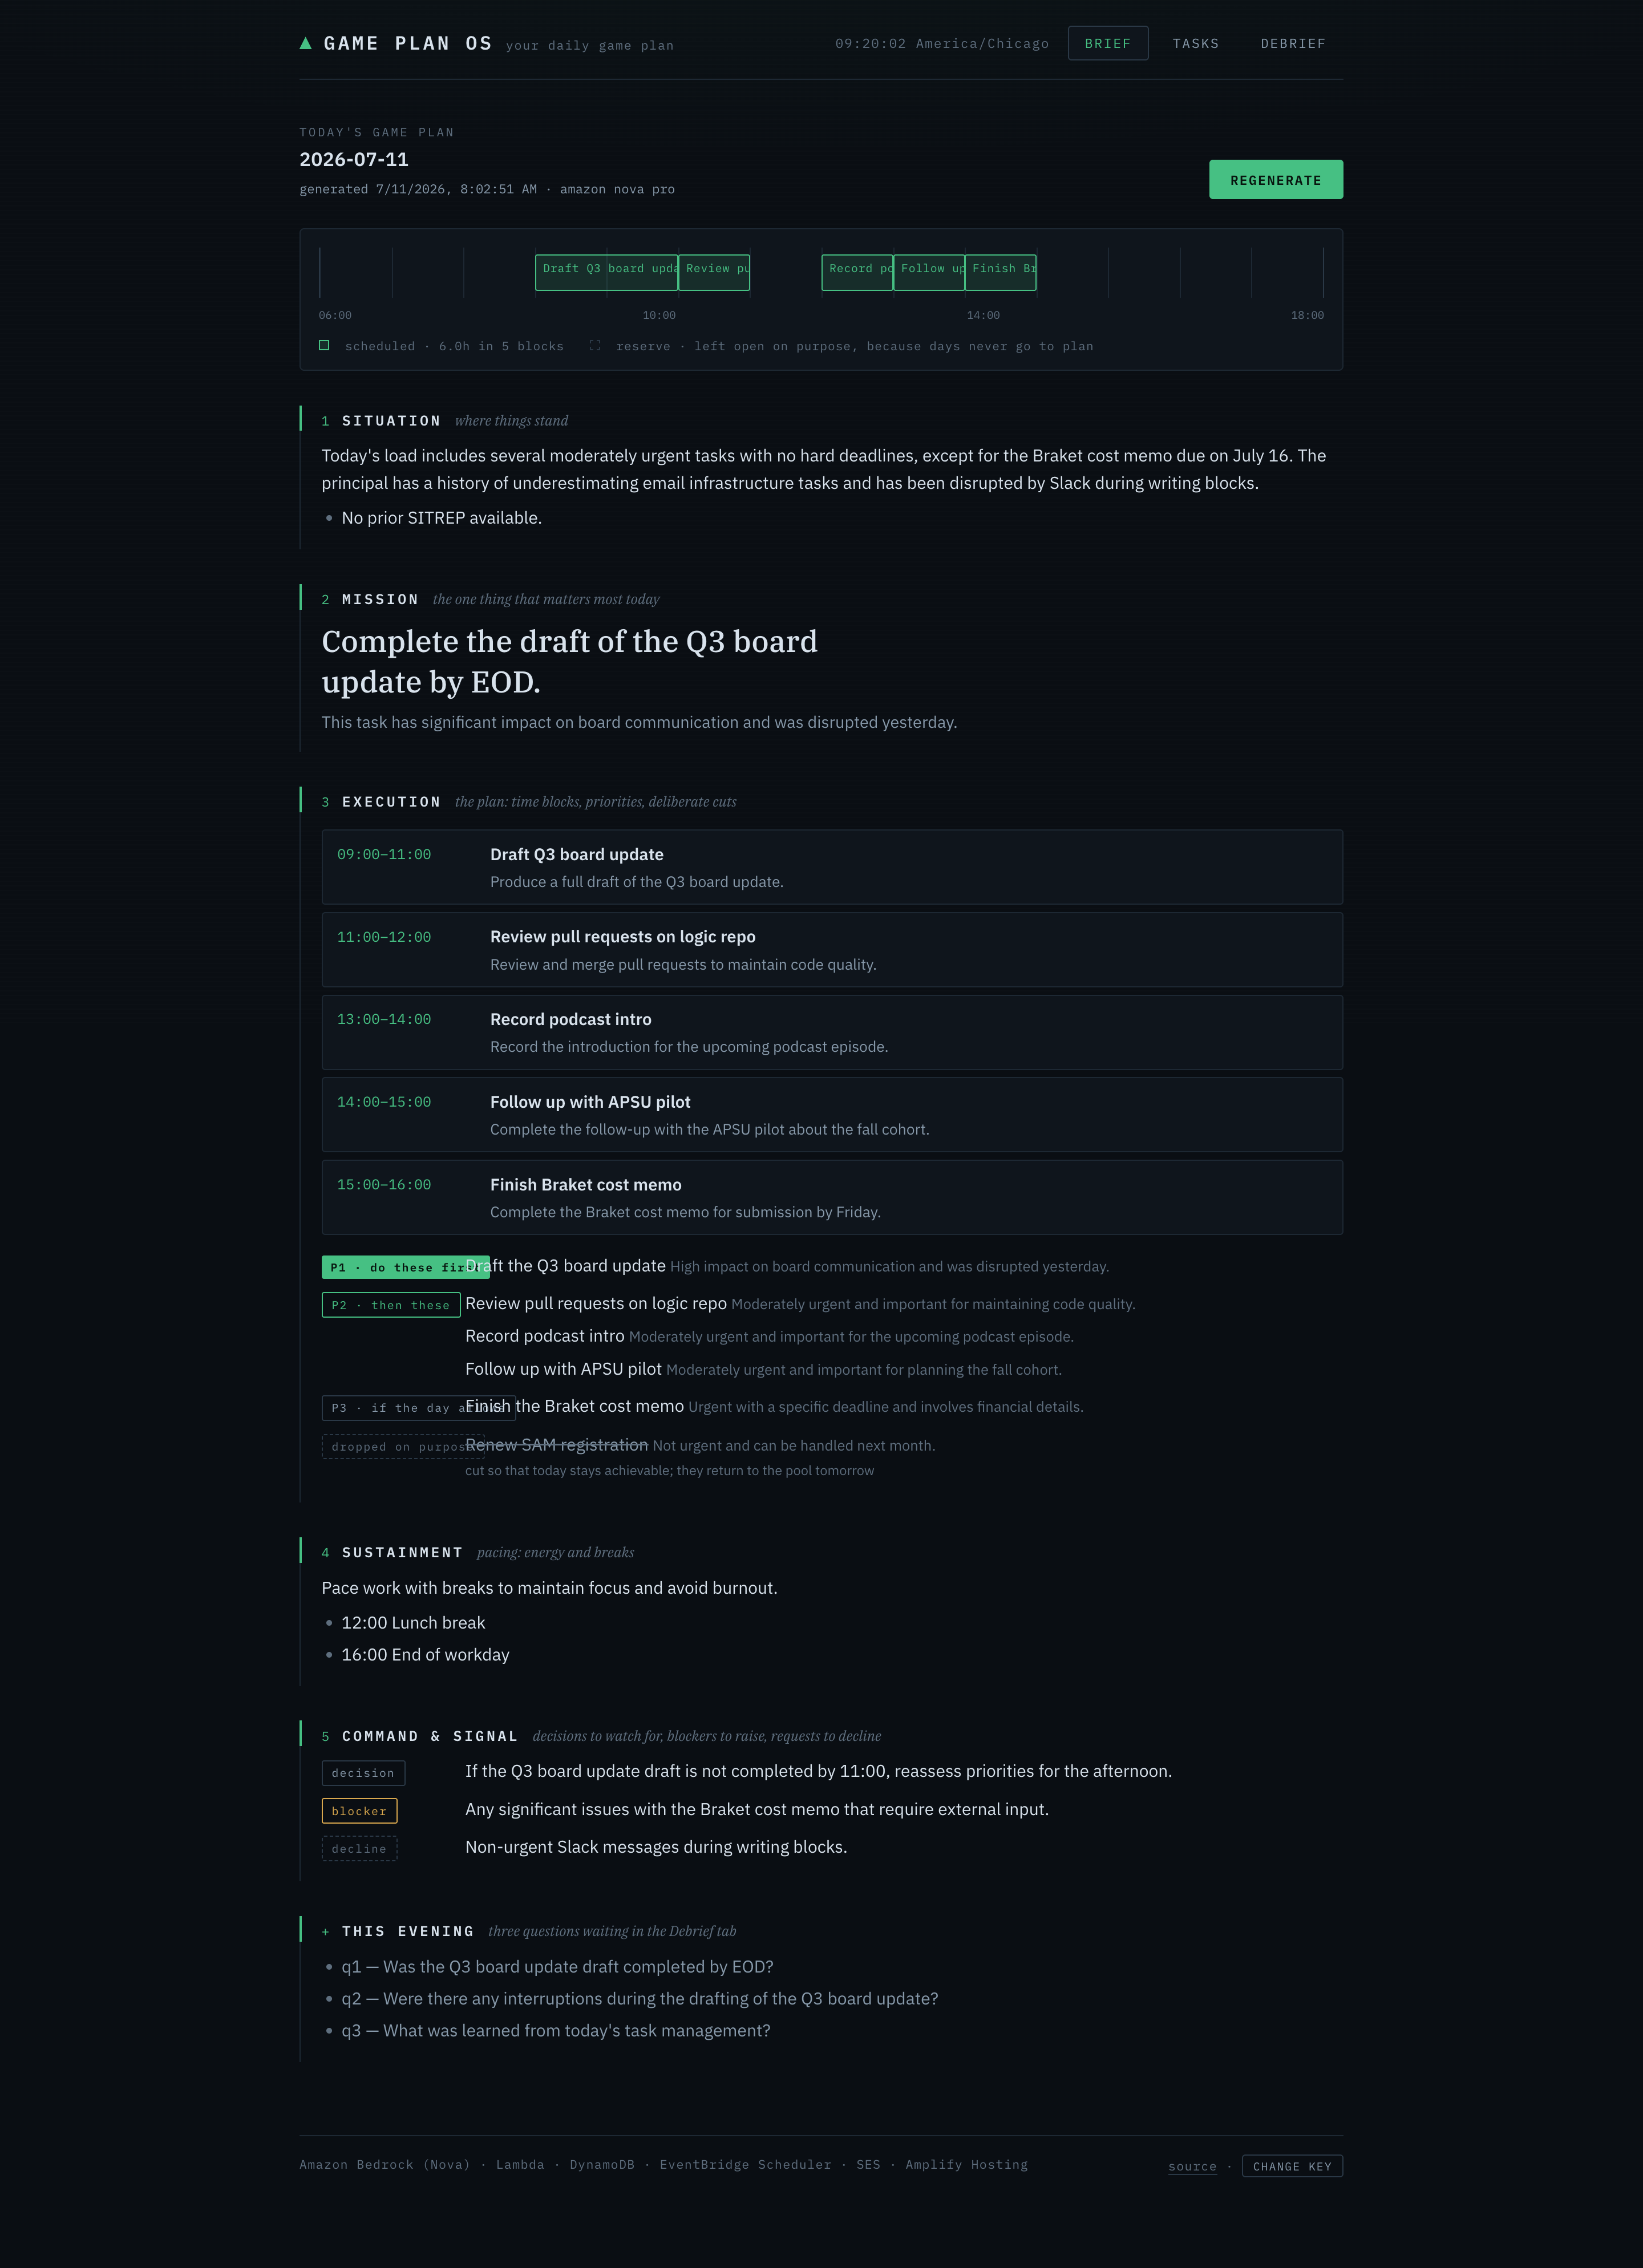
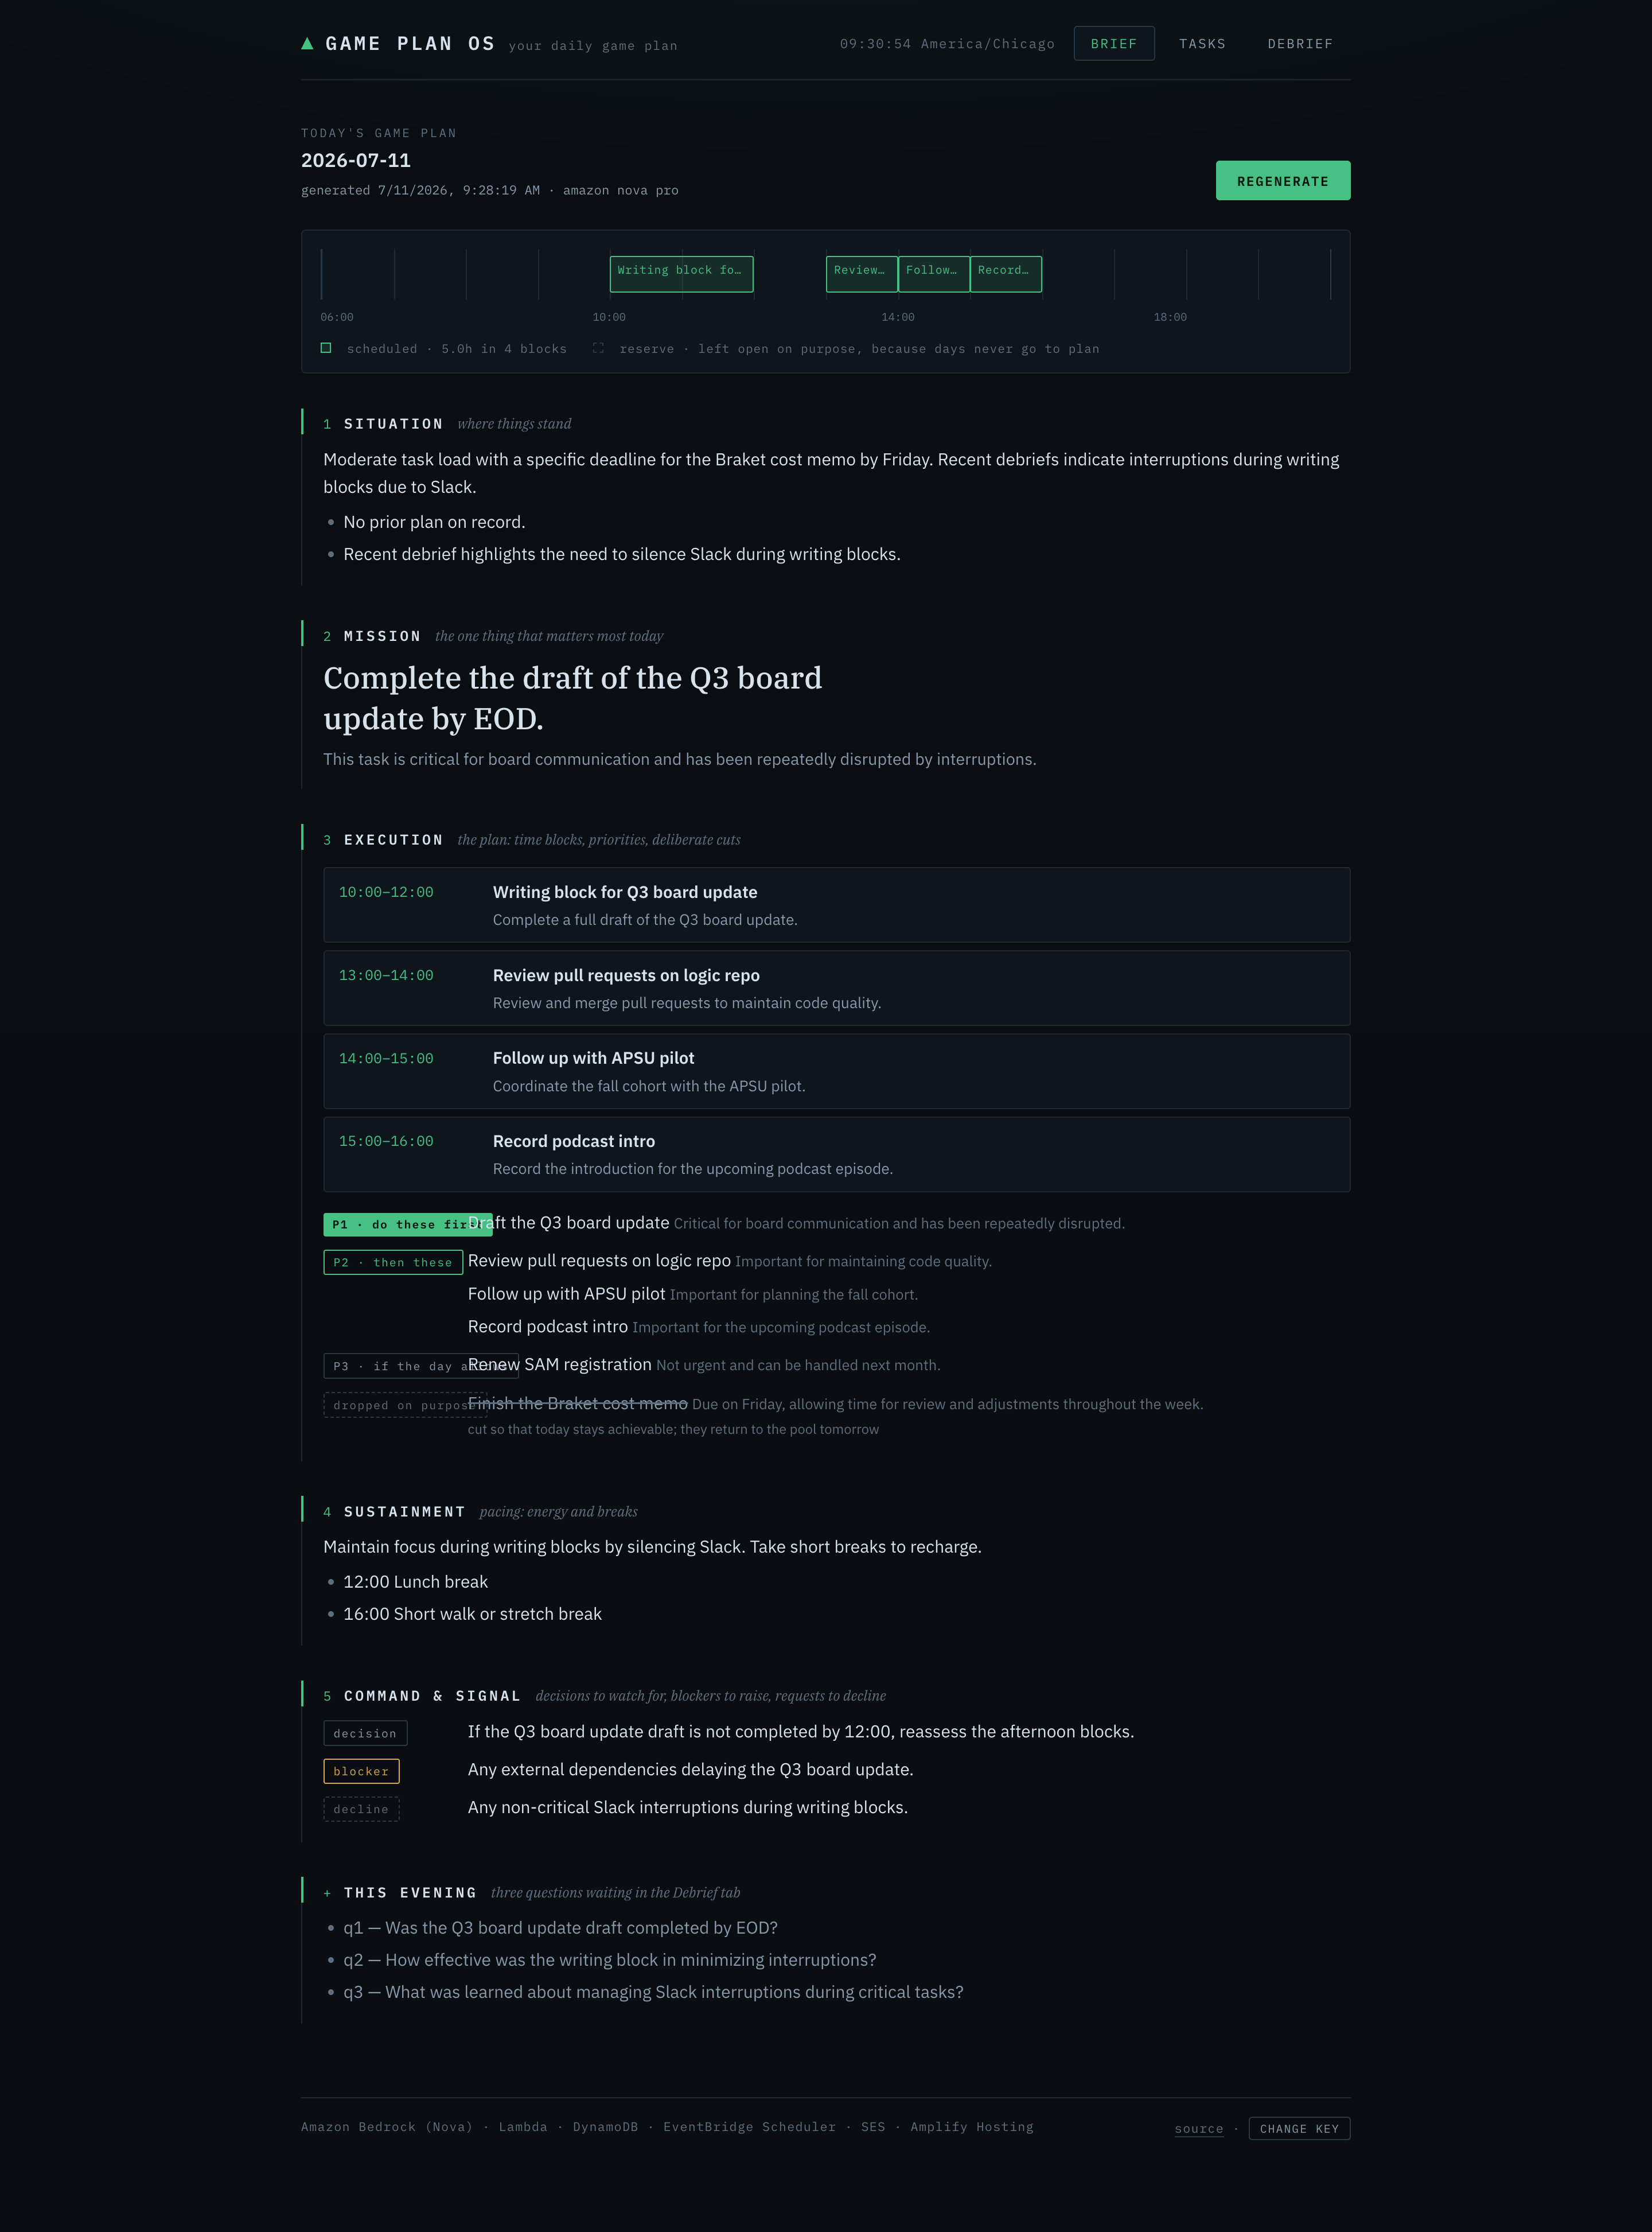
Screenshots from the live app; README hero image and live URL
Full loop captured against production: game plan with timeline,
five sections, task pool, debrief questions, after-action review
with two high-confidence preferences persisted.

diff --git a/article/article-draft.md b/article/article-draft.md
@@ -158,9 +158,11 @@ scheduled event a day, one email a day.
 - **Live app:** https://main.dpg1b347fl82l.amplifyapp.com — deployed on
   Amplify Hosting with CI/CD from the repo. It is a single-principal personal
   tool behind an access key, so the screenshots below show the working loop.
-- [TODO: 3–4 screenshots: the game plan view with a real plan, the morning
-  email, the debrief's "what the agent learned about you" panel, DynamoDB
-  items]
+- Screenshots ready in `article/screenshots/`: 01 game plan hero (timeline +
+  mission), 02 full five-section plan, 03 task pool with triage scores,
+  04 evening debrief questions, 05 after-action review with two learned
+  preferences saved. [TODO: optionally add the morning email from your inbox
+  and a DynamoDB console shot, then upload all to Builder Center.]
 
 ---
 

diff --git a/README.md b/README.md
@@ -12,6 +12,11 @@ work — so tomorrow's plan is smarter than today's.
 Built for the AWS Builder Center **Build a Productivity App Weekend Challenge**
 (July 10–13, 2026).
 
+![Game Plan OS - today's game plan with the day timeline and visible reserve](article/screenshots/01-gameplan-hero.png)
+
+Live app: https://main.dpg1b347fl82l.amplifyapp.com (single-user personal
+tool behind an access key; see `article/screenshots/` for the working loop).
+
 ## Why a game plan instead of a to-do list
 
 A to-do list is inventory. A plan is a decision. The military five-paragraph